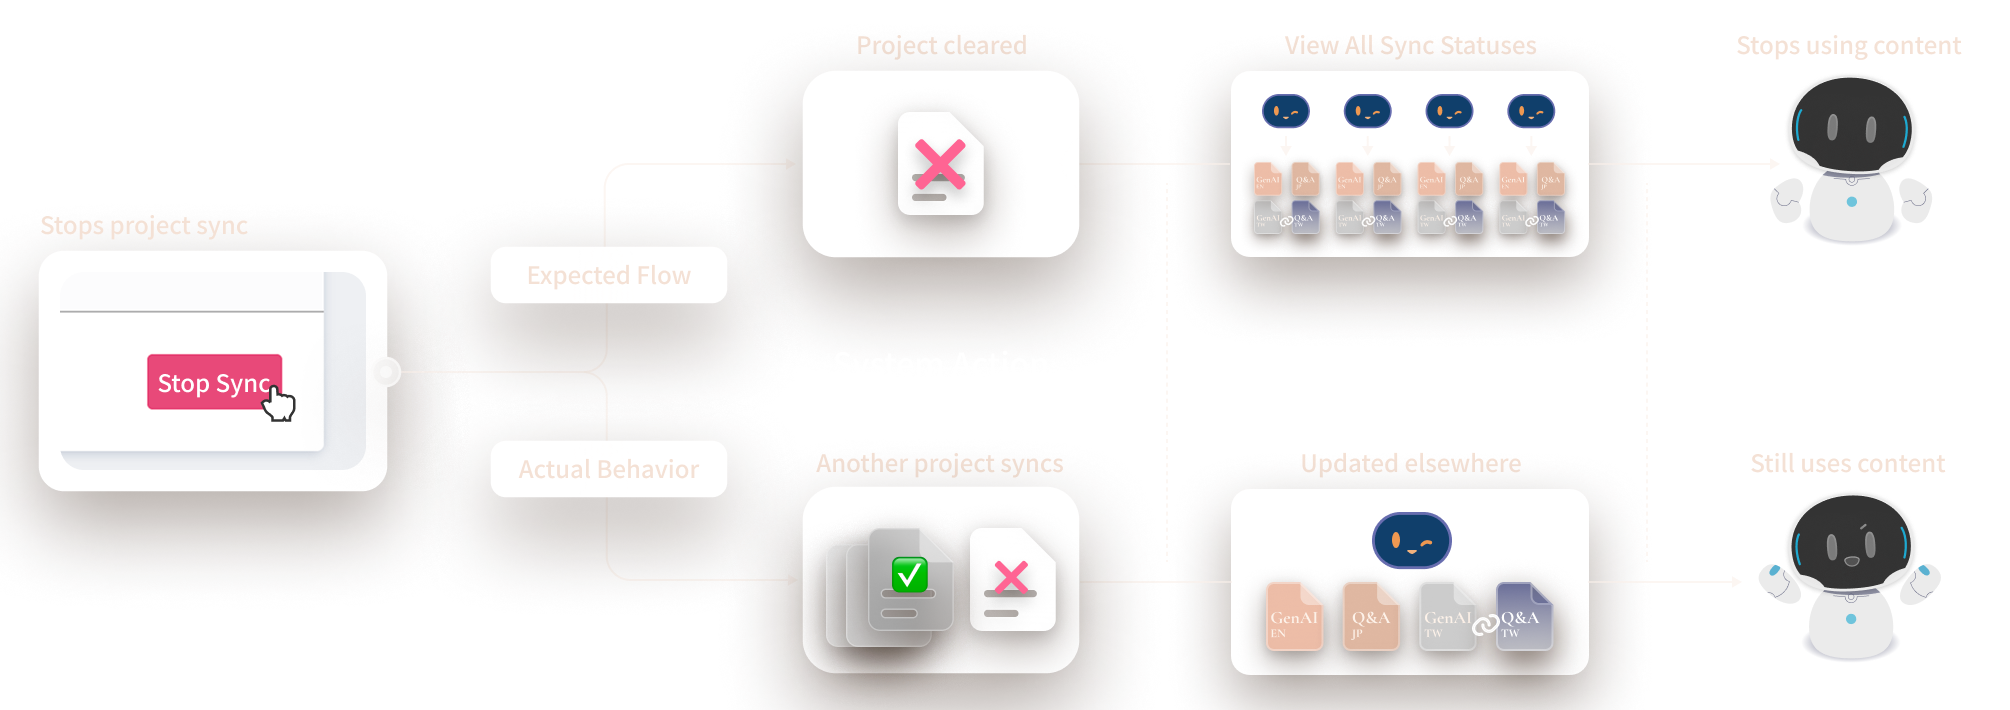
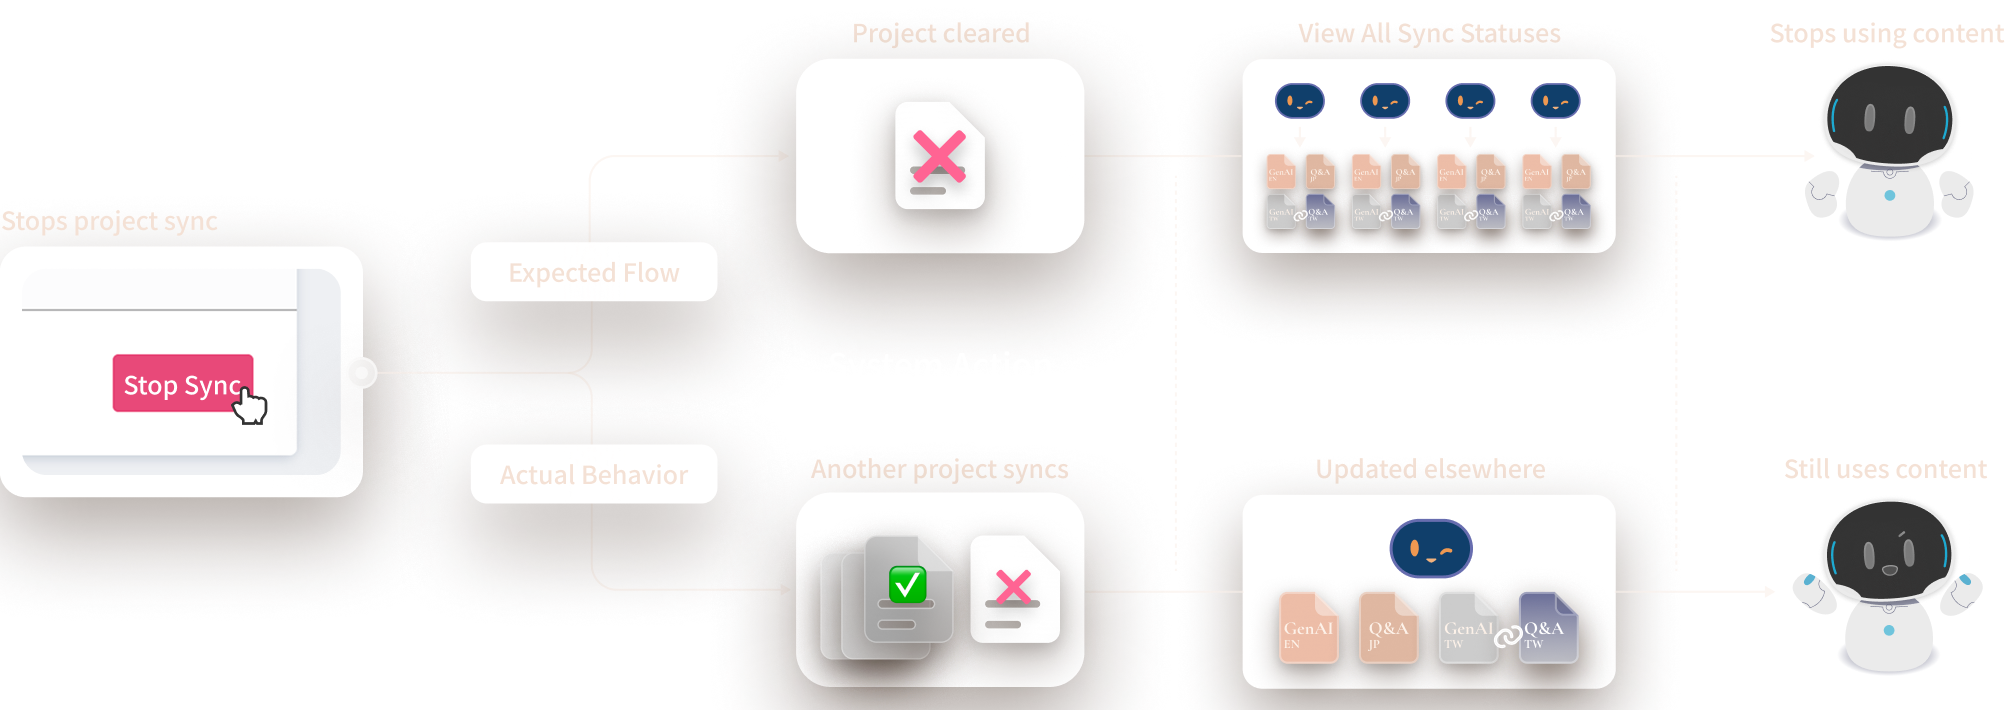
case02 流程圖 rwd（≤768px）+ case01 流程對照圖 web 換新版
case02 流程圖 rwd（≤768px）：
- b/d/h 從兩張並排改成單張點擊切換 before/after（硬切、無過場），連線從分岔兩條變單一直線（case02-flow.js 加手機分支，各節點置中 elbow 即直線）
- d：切到 after 才顯示兩隻影片（影片在 after 圖層內，before 狀態整層隱藏；切換時呼叫 play）
- 可切換 section 右上角加切換提示（不壓圖），狀態導向「點擊查看優化後／前」，中英走 i18n
- f/j 改用 rwd 版：<picture> + <source media="(max-width:768px)">，source 走新增的 data-srcset-k（case-brand-i18n 補迴圈），只載入對應版本
- 無障礙：≤768 pair 加 role=button/tabindex/aria 狀態、Enter/Space 可操作；桌機還原成非互動並清除；標籤/emoji/B 底色卡/垂直結構不變
- 桌機行為完全不變（實測 12 線 8 箭頭、兩張並排、f 用 web 版）

case01：flow-comparison-web 中英換新版（尺寸同 2010×710，內容更新，就地置換）

diff --git a/src/js/case02-flow.js b/src/js/case02-flow.js
@@ -1,12 +1,14 @@
-// 專案二 §7 優化成果流程圖：依各節點實際位置畫直角折線連接（轉角圓弧）。
+// 專案二 §7 優化成果流程圖：依各節點實際位置畫直角折線連接。
 // 規則：連到「圖片」的線末端加實心箭頭；連到「標籤」的不加箭頭。
-// 邏輯沿用 handoff prototype（case02-flow-final）的 drawWires。
+// ≤768px（rwd）：b/d/h 改單張點擊切換 before/after、連線變單一直線；桌機維持兩張並排＋分岔線。
+
+import caseBrandCopy from '../i18n/case-brand.json';
+import { getStoredLang } from './lang-store.js';
 
 const R = 10; // 轉角圓弧半徑
+const IMG_PAD = 43; // PNG 四邊透明留白（native），用來把線/箭頭端點內縮貼齊可見內容
+const isMobile = () => window.matchMedia('(max-width: 768px)').matches;
 
-// PNG 圖檔四邊有約 43px（native）透明留白（Figma 匯出的陰影出血區）。
-// 量測顯示尺寸後把「圖片節點」的上下端點內縮，讓線段/箭頭貼齊可見內容、不留空隙；標籤節點無留白不內縮。
-const IMG_PAD = 43;
 function box(flow, node) {
   const el = flow.querySelector(`[data-node="${node}"]`);
   const f = flow.getBoundingClientRect();
@@ -16,7 +18,6 @@ function box(flow, node) {
   return { cx: r.left - f.left + r.width / 2, top: r.top - f.top + inset, bottom: r.bottom - f.top - inset };
 }
 
-// 直角折線：從 (x1,y1) 垂下到中線、水平位移、再垂下到 (x2,y2)，轉角用二次貝茲做圓弧
 function elbow(x1, y1, x2, y2) {
   const my = (y1 + y2) / 2;
   if (Math.abs(x1 - x2) < 1) return `M${x1} ${y1} L${x2} ${y2}`;
@@ -28,27 +29,48 @@ function solidArrow(x, y) {
   return `<path class="flow-arrow" d="M${x - 5} ${y - 8} L${x + 5} ${y - 8} L${x} ${y} Z"/>`;
 }
 
+// 桌機：before/after 兩張並排 → 標籤分岔兩條線
+function segsDesktop(b) {
+  const A = b('tagA'), bL = b('bL'), bR = b('bR'), C = b('tagC'), dL = b('dL'), dR = b('dR'),
+    f = b('f'), G = b('tagG'), hL = b('hL'), hR = b('hR'), I = b('tagI'), j = b('j');
+  return [
+    { d: elbow(A.cx, A.bottom, bL.cx, bL.top), arr: [bL.cx, bL.top] },
+    { d: elbow(A.cx, A.bottom, bR.cx, bR.top), arr: [bR.cx, bR.top] },
+    { d: elbow(bL.cx, bL.bottom, C.cx, C.top), arr: null },
+    { d: elbow(bR.cx, bR.bottom, C.cx, C.top), arr: null },
+    { d: elbow(C.cx, C.bottom, dL.cx, dL.top), arr: [dL.cx, dL.top] },
+    { d: elbow(C.cx, C.bottom, dR.cx, dR.top), arr: [dR.cx, dR.top] },
+    { d: elbow(dR.cx, dR.bottom, f.cx, f.top), arr: [f.cx, f.top] },
+    { d: elbow(f.cx, f.bottom, G.cx, G.top), arr: null },
+    { d: elbow(G.cx, G.bottom, hL.cx, hL.top), arr: [hL.cx, hL.top] },
+    { d: elbow(G.cx, G.bottom, hR.cx, hR.top), arr: [hR.cx, hR.top] },
+    { d: elbow(hR.cx, hR.bottom, I.cx, I.top), arr: null },
+    { d: elbow(I.cx, I.bottom, j.cx, j.top), arr: [j.cx, j.top] },
+  ];
+}
+
+// ≤768：單張 → 單一直線串起（各節點置中，elbow 在 x 相同時即畫直線）
+function segsMobile(b) {
+  const A = b('tagA'), B = b('bPair'), C = b('tagC'), D = b('dPair'),
+    f = b('f'), G = b('tagG'), H = b('hPair'), I = b('tagI'), j = b('j');
+  return [
+    { d: elbow(A.cx, A.bottom, B.cx, B.top), arr: [B.cx, B.top] },
+    { d: elbow(B.cx, B.bottom, C.cx, C.top), arr: null },
+    { d: elbow(C.cx, C.bottom, D.cx, D.top), arr: [D.cx, D.top] },
+    { d: elbow(D.cx, D.bottom, f.cx, f.top), arr: [f.cx, f.top] },
+    { d: elbow(f.cx, f.bottom, G.cx, G.top), arr: null },
+    { d: elbow(G.cx, G.bottom, H.cx, H.top), arr: [H.cx, H.top] },
+    { d: elbow(H.cx, H.bottom, I.cx, I.top), arr: null },
+    { d: elbow(I.cx, I.bottom, j.cx, j.top), arr: [j.cx, j.top] },
+  ];
+}
+
 function drawWires() {
   const flow = document.getElementById('flow');
   if (!flow) return;
   const svg = document.getElementById('flowWires');
   const b = (n) => box(flow, n);
-  const A = b('tagA'), bL = b('bL'), bR = b('bR'), C = b('tagC'), dL = b('dL'), dR = b('dR'),
-    f = b('f'), G = b('tagG'), hL = b('hL'), hR = b('hR'), I = b('tagI'), j = b('j');
-  const segs = [
-    { d: elbow(A.cx, A.bottom, bL.cx, bL.top), arr: [bL.cx, bL.top] },   // a→b左（圖，箭頭）
-    { d: elbow(A.cx, A.bottom, bR.cx, bR.top), arr: [bR.cx, bR.top] },   // a→b右（圖，箭頭）
-    { d: elbow(bL.cx, bL.bottom, C.cx, C.top), arr: null },              // b左→c（標籤，無箭頭）
-    { d: elbow(bR.cx, bR.bottom, C.cx, C.top), arr: null },              // b右→c（標籤，無箭頭）
-    { d: elbow(C.cx, C.bottom, dL.cx, dL.top), arr: [dL.cx, dL.top] },   // c→d左（圖，箭頭）
-    { d: elbow(C.cx, C.bottom, dR.cx, dR.top), arr: [dR.cx, dR.top] },   // c→d右（圖，箭頭）
-    { d: elbow(dR.cx, dR.bottom, f.cx, f.top), arr: [f.cx, f.top] },     // d右→f（圖，箭頭）
-    { d: elbow(f.cx, f.bottom, G.cx, G.top), arr: null },               // f→g（標籤，無箭頭）
-    { d: elbow(G.cx, G.bottom, hL.cx, hL.top), arr: [hL.cx, hL.top] },   // g→h左（圖，箭頭）
-    { d: elbow(G.cx, G.bottom, hR.cx, hR.top), arr: [hR.cx, hR.top] },   // g→h右（圖，箭頭）
-    { d: elbow(hR.cx, hR.bottom, I.cx, I.top), arr: null },              // h右→i（標籤，無箭頭）
-    { d: elbow(I.cx, I.bottom, j.cx, j.top), arr: [j.cx, j.top] },       // i→j（圖，箭頭）
-  ];
+  const segs = isMobile() ? segsMobile(b) : segsDesktop(b);
   svg.innerHTML =
     segs.map((s) => `<path class="flow-wire" d="${s.d}"/>`).join('') +
     segs.filter((s) => s.arr).map((s) => solidArrow(s.arr[0], s.arr[1])).join('');
@@ -58,19 +80,63 @@ function drawWires() {
   svg.style.height = `${fr.height}px`;
 }
 
+// ---- rwd 點擊切換 ----
+function updatePairState(pair) {
+  const d = caseBrandCopy[getStoredLang()];
+  const after = pair.classList.contains('is-after');
+  const tip = pair.querySelector('.flow-pair-tip');
+  if (tip) tip.textContent = after ? (d.flowTipToBefore || '') : (d.flowTipToAfter || '');
+  const aria = after ? d.flowPairAriaAfter : d.flowPairAriaBefore;
+  if (aria) pair.setAttribute('aria-label', aria);
+}
+
+function togglePair(pair) {
+  if (!isMobile()) return;
+  pair.classList.toggle('is-after');
+  updatePairState(pair);
+  if (pair.classList.contains('is-after')) {
+    pair.querySelectorAll('video').forEach((v) => { const p = v.play(); if (p && p.catch) p.catch(() => {}); });
+  }
+  requestAnimationFrame(drawWires);
+}
+
+// 依斷點切換互動性：≤768 給 button 語意；桌機移除並還原成 before
+function syncPairs() {
+  const m = isMobile();
+  document.querySelectorAll('#flow [data-pair]').forEach((pair) => {
+    if (m) {
+      pair.setAttribute('role', 'button');
+      pair.setAttribute('tabindex', '0');
+      updatePairState(pair);
+    } else {
+      pair.removeAttribute('role');
+      pair.removeAttribute('tabindex');
+      pair.removeAttribute('aria-label');
+      pair.classList.remove('is-after');
+      const tip = pair.querySelector('.flow-pair-tip');
+      if (tip) tip.textContent = '';
+    }
+  });
+}
+
 export function initFlow() {
   const flow = document.getElementById('flow');
   if (!flow) return;
   const redraw = () => requestAnimationFrame(drawWires);
+  flow.querySelectorAll('[data-pair]').forEach((pair) => {
+    pair.addEventListener('click', () => togglePair(pair));
+    pair.addEventListener('keydown', (e) => {
+      if ((e.key === 'Enter' || e.key === ' ') && isMobile()) { e.preventDefault(); togglePair(pair); }
+    });
+  });
+  syncPairs();
   redraw();
-  // 圖片尺寸決定版面高度：每張載入後重畫（含語言切換換圖後的重載）
   flow.querySelectorAll('.flow-img').forEach((img) => {
     img.addEventListener('load', redraw);
     if (img.complete) redraw();
   });
-  window.addEventListener('resize', redraw);
+  window.addEventListener('resize', () => { syncPairs(); redraw(); });
   if (document.fonts && document.fonts.ready) document.fonts.ready.then(redraw);
-  // 語言切換：標籤寬度變、圖也重載 → 先重畫一次，圖載入完成的 load 事件會再校正
   const langBtn = document.getElementById('langBtn');
-  if (langBtn) langBtn.addEventListener('click', () => { redraw(); setTimeout(redraw, 120); });
+  if (langBtn) langBtn.addEventListener('click', () => { syncPairs(); redraw(); setTimeout(redraw, 120); });
 }

diff --git a/work-brand-narrative.html b/work-brand-narrative.html
@@ -188,10 +188,11 @@
             </div>
             <div class="flow-gap-l"></div>
 
-            <!-- b：兩張圖並排 -->
-            <div class="flow-layer"><div class="flow-imgrow">
-              <img class="flow-img" data-node="bL" data-src-k="flowBLeft" src="/assets/case-diagrams/case02-b-before-left-tw.png" alt="" loading="lazy">
-              <img class="flow-img" data-node="bR" data-src-k="flowBRight" src="/assets/case-diagrams/case02-b-after-right-tw.png" alt="" loading="lazy">
+            <!-- b：桌機兩張並排；≤768 單張點擊切換 before/after -->
+            <div class="flow-layer"><div class="flow-pair" data-node="bPair" data-pair="b">
+              <img class="flow-img flow-pair-before" data-node="bL" data-src-k="flowBLeft" src="/assets/case-diagrams/case02-b-before-left-tw.png" alt="" loading="lazy">
+              <img class="flow-img flow-pair-after" data-node="bR" data-src-k="flowBRight" src="/assets/case-diagrams/case02-b-after-right-tw.png" alt="" loading="lazy">
+              <span class="flow-pair-tip" aria-hidden="true"></span>
             </div></div>
             <div class="flow-gap-m"></div>
 
@@ -199,29 +200,34 @@
             <div class="flow-layer"><div class="flow-tag" data-node="tagC" data-k="flowTagC"></div></div>
             <div class="flow-gap-l"></div>
 
-            <!-- d：兩張圖並排，右圖疊兩隻影片 -->
-            <div class="flow-layer"><div class="flow-imgrow">
-              <img class="flow-img" data-node="dL" data-src-k="flowDLeft" src="/assets/case-diagrams/case02-d-before-left-tw.png" alt="" loading="lazy">
-              <div class="flow-img-wrap" data-node="dR">
+            <!-- d：桌機兩張並排（右圖疊影片）；≤768 單張點擊切換，切到 after 才顯示影片 -->
+            <div class="flow-layer"><div class="flow-pair" data-node="dPair" data-pair="d">
+              <img class="flow-img flow-pair-before" data-node="dL" data-src-k="flowDLeft" src="/assets/case-diagrams/case02-d-before-left-tw.png" alt="" loading="lazy">
+              <div class="flow-img-wrap flow-pair-after" data-node="dR">
                 <img class="flow-img" data-src-k="flowDRight" src="/assets/case-diagrams/case02-d-after-right-tw.png" alt="" loading="lazy">
                 <video class="flow-vid flow-vid--upper" data-src-k="flowVidUpper" src="/assets/case-diagrams/case02-d-after-right-video-upper-tw.mp4" autoplay loop muted playsinline aria-hidden="true"></video>
                 <video class="flow-vid flow-vid--down" data-src-k="flowVidDown" src="/assets/case-diagrams/case02-d-after-right-video-down-tw.mp4" autoplay loop muted playsinline aria-hidden="true"></video>
               </div>
+              <span class="flow-pair-tip" aria-hidden="true"></span>
             </div></div>
             <div class="flow-gap-l"></div>
 
-            <!-- f：單張寬版置中 -->
-            <div class="flow-layer"><img class="flow-img flow-img--wide" data-node="f" data-src-k="flowF" src="/assets/case-diagrams/case02-f-web-tw.png" alt="" loading="lazy"></div>
+            <!-- f：單張寬版置中；≤768 換 rwd 版（picture source 只載入對應版本）-->
+            <div class="flow-layer"><picture>
+              <source media="(max-width: 768px)" data-srcset-k="flowFRwd" srcset="/assets/case-diagrams/case02-f-rwd-tw.png">
+              <img class="flow-img flow-img--wide" data-node="f" data-src-k="flowF" src="/assets/case-diagrams/case02-f-web-tw.png" alt="" loading="lazy">
+            </picture></div>
             <div class="flow-gap-m"></div>
 
             <!-- g：標籤G -->
             <div class="flow-layer"><div class="flow-tag" data-node="tagG" data-k="flowTagG"></div></div>
             <div class="flow-gap-l"></div>
 
-            <!-- h：兩張圖並排 -->
-            <div class="flow-layer"><div class="flow-imgrow">
-              <img class="flow-img" data-node="hL" data-src-k="flowHLeft" src="/assets/case-diagrams/case02-h-before-left-tw.png" alt="" loading="lazy">
-              <img class="flow-img" data-node="hR" data-src-k="flowHRight" src="/assets/case-diagrams/case02-h-after-right-tw.png" alt="" loading="lazy">
+            <!-- h：桌機兩張並排；≤768 單張點擊切換 before/after -->
+            <div class="flow-layer"><div class="flow-pair" data-node="hPair" data-pair="h">
+              <img class="flow-img flow-pair-before" data-node="hL" data-src-k="flowHLeft" src="/assets/case-diagrams/case02-h-before-left-tw.png" alt="" loading="lazy">
+              <img class="flow-img flow-pair-after" data-node="hR" data-src-k="flowHRight" src="/assets/case-diagrams/case02-h-after-right-tw.png" alt="" loading="lazy">
+              <span class="flow-pair-tip" aria-hidden="true"></span>
             </div></div>
             <div class="flow-gap-m"></div>
 
@@ -231,8 +237,11 @@
             </div></div></div>
             <div class="flow-gap-l"></div>
 
-            <!-- j：單張寬版置中 -->
-            <div class="flow-layer"><img class="flow-img flow-img--wide" data-node="j" data-src-k="flowJ" src="/assets/case-diagrams/case02-j-web-tw.png" alt="" loading="lazy"></div>
+            <!-- j：單張寬版置中；≤768 換 rwd 版 -->
+            <div class="flow-layer"><picture>
+              <source media="(max-width: 768px)" data-srcset-k="flowJRwd" srcset="/assets/case-diagrams/case02-j-rwd-tw.png">
+              <img class="flow-img flow-img--wide" data-node="j" data-src-k="flowJ" src="/assets/case-diagrams/case02-j-web-tw.png" alt="" loading="lazy">
+            </picture></div>
           </div>
         </div>
       </div>

diff --git a/src/styles/components.css b/src/styles/components.css
@@ -1612,7 +1612,9 @@ html[lang="en"] .sol-tip {
   white-space: nowrap;
 }
 
-.flow-imgrow { display: flex; justify-content: center; gap: var(--flow-img-gap); }
+/* 桌機：before/after 兩張並排。≤768 改單張點擊切換（見檔案下方 rwd media query） */
+.flow-pair { display: flex; justify-content: center; gap: var(--flow-img-gap); }
+.flow-pair-tip { display: none; } /* 切換提示只在 ≤768 顯示 */
 .flow-img {
   width: var(--flow-img-w);
   height: auto;
@@ -1650,6 +1652,56 @@ html[lang="en"] .flow-vid--down  { top: 65.01%; } /* en：63.26 + 1.75 */
   width: var(--flow-img-w);
   display: flex;
   justify-content: center;
+}
+
+/* ---- 流程圖 rwd（≤768px）：b/d/h 單張點擊切換、連線走直線（JS）、f/j 換 rwd 版 ---- */
+@media (max-width: 768px) {
+  .flow { --flow-rwd-w: min(300px, 100%); }
+
+  /* b/d/h：單張、點擊切換 before/after，硬切（display 直接換、無過場）*/
+  .flow-pair {
+    display: block;
+    position: relative;
+    width: var(--flow-rwd-w);
+    cursor: pointer;
+    -webkit-tap-highlight-color: transparent;
+  }
+  .flow-pair .flow-img { width: 100%; }
+  .flow-pair-before { display: block; }
+  .flow-pair-after { display: none; }
+  .flow-pair.is-after .flow-pair-before { display: none; }
+  .flow-pair.is-after .flow-pair-after { display: block; }
+  .flow-img-wrap.flow-pair-after { width: 100%; } /* d 的 after 圖：影片在裡面，切到 after 才連同顯示 */
+  .flow-pair:focus-visible {
+    outline: 2px solid var(--ondark-link);
+    outline-offset: 3px;
+    border-radius: var(--radius-l);
+  }
+
+  /* 切換提示：右上角、圖外側上方，不壓圖 */
+  .flow-pair-tip {
+    display: block;
+    position: absolute;
+    bottom: calc(100% + 6px);
+    right: 0;
+    padding: 5px 12px;
+    border-radius: var(--radius-full);
+    background: rgba(30, 14, 6, 0.72);
+    border: 1px solid rgba(250, 240, 234, 0.18);
+    -webkit-backdrop-filter: blur(4px);
+    backdrop-filter: blur(4px);
+    color: var(--ondark-text-1);
+    font-size: 12px;
+    line-height: 1;
+    white-space: nowrap;
+    pointer-events: none;
+  }
+
+  /* f/j：單張 rwd 版（picture source 已換圖），寬度收成單欄 */
+  .flow-img--wide { width: var(--flow-rwd-w); }
+
+  /* i 標籤置中（桌機靠右對齊在單欄不需要）*/
+  .flow-align-inner { transform: none; width: auto; }
 }
 
 /* 專案二：Key Outcomes 條列 */

diff --git a/src/js/case-brand-i18n.js b/src/js/case-brand-i18n.js
@@ -20,6 +20,11 @@ function apply() {
     const value = dict[el.dataset.srcK] ?? home[el.dataset.srcK];
     if (value !== undefined) el.src = value;
   });
+  // srcset：給 <picture><source> 用（流程圖 f/j 的 rwd 版隨語言換圖）
+  document.querySelectorAll('[data-srcset-k]').forEach((el) => {
+    const value = dict[el.dataset.srcsetK] ?? home[el.dataset.srcsetK];
+    if (value !== undefined) el.srcset = value;
+  });
   // alt 替代文字：隨語言切換（比照 case-sync-i18n.js）
   document.querySelectorAll('[data-alt-k]').forEach((el) => {
     const value = dict[el.dataset.altK] ?? home[el.dataset.altK];
